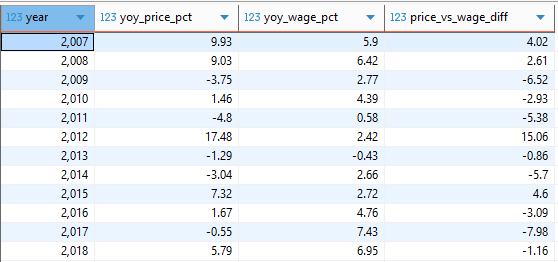
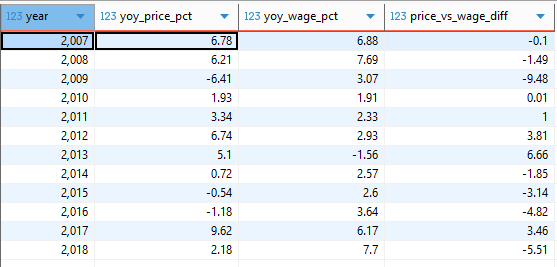
update readme

diff --git a/README.md b/README.md
@@ -323,54 +323,52 @@ Z grafu lze vidět, že dvě kategorie v tomto období dokonce zlevňovali a to 
 
 ### 4. Existuje rok, ve kterém byl meziroční nárůst cen potravin výrazně vyšší než růst mezd (větší než 10 %)?
 
-Cílem bylo zjistit, zda ceny potravin rostly rychleji než mzdy, a to na základě jejich mediánových meziročních změn. Medián sem se rozhodl použít z důvodu některých silně vybočujích hodnot u navýšení/poklesu cen levných produktů. 
-
+Cílem této analýzy bylo zjistit, zda ceny potravin rostly rychleji než mzdy. Výpočet byl proveden na základě průměrných meziročních změn obou veličin.
 ```
 CREATE OR REPLACE VIEW price_vs_wage_diff AS 
-WITH median_prices AS (
-    SELECT year,
-           PERCENTILE_CONT(0.5) WITHIN GROUP (ORDER BY avg_price_czk) AS median_price
+WITH avg_prices AS (
+    SELECT 
+        year,
+        AVG(avg_price_czk) AS avg_price
     FROM t_vladimir_sip_project_sql_primary_final
     GROUP BY year
 ),
-median_wages AS (
-    SELECT year,
-           PERCENTILE_CONT(0.5) WITHIN GROUP (ORDER BY avg_wage_czk) AS median_wage
+avg_wages AS (
+    SELECT 
+        year,
+        AVG(avg_wage_czk) AS avg_wage
     FROM t_vladimir_sip_project_sql_primary_final
     GROUP BY year
 ),
 combined AS (
     SELECT 
         p.year,
-        p.median_price,
-        w.median_wage,
-        LAG(p.median_price) OVER (ORDER BY p.year) AS prev_price,
-        LAG(w.median_wage) OVER (ORDER BY w.year) AS prev_wage
-    FROM median_prices p
-    JOIN median_wages w ON p.year = w.year
+        p.avg_price,
+        w.avg_wage,
+        LAG(p.avg_price) OVER (ORDER BY p.year) AS prev_price,
+        LAG(w.avg_wage) OVER (ORDER BY w.year) AS prev_wage
+    FROM avg_prices p
+    JOIN avg_wages w ON p.year = w.year
 ),
 change_analysis AS (
     SELECT
         year,
-        ROUND(((median_price - prev_price) / prev_price * 100)::NUMERIC, 2) AS yoy_price_pct,
-        ROUND(((median_wage - prev_wage) / prev_wage * 100)::NUMERIC, 2) AS yoy_wage_pct,
-        ROUND((((median_price - prev_price) / prev_price * 100) - ((median_wage - prev_wage) / prev_wage * 100))::NUMERIC, 2) AS price_vs_wage_diff
+        ROUND(((avg_price - prev_price) / prev_price * 100)::NUMERIC, 2) AS yoy_price_pct,
+        ROUND(((avg_wage - prev_wage) / prev_wage * 100)::NUMERIC, 2) AS yoy_wage_pct,
+        ROUND((((avg_price - prev_price) / prev_price * 100) - ((avg_wage - prev_wage) / prev_wage * 100))::NUMERIC, 2) AS price_vs_wage_diff
     FROM combined
     WHERE prev_price IS NOT NULL AND prev_wage IS NOT NULL
       AND prev_price <> 0 AND prev_wage <> 0
 )
 SELECT *
-FROM change_analysis
+FROM change_analysis;
+
 ```
-**median_prices**  
-Výpočet mediánové ceny potravin za každý rok (pomocí ```PERCENTILE_CONT(0.5)```).
+**avg_priceses**  
+Výpočet průměrné ceny potravin za každý rok ```AVG(avg_price_czk) AS avg_price```
 
-0.5 = 50. percentil > medián
-
-```WITHIN GROUP (ORDER BY ...)``` > určuje, podle kterého sloupce se mají hodnoty seřadit
-
-**median_wages**
-Výpočet mediánových mezd za každý rok stejným způsobem.
+**avg_wageses**
+Výpočet průměrných mezd za každý rok stejným způsobem.
 
 **combined**  
 Spojení tabulek a přidání předchozích hodnot (LAG) pro výpočet meziročních změn.
@@ -385,12 +383,31 @@ Výpočet klíčových ukazatelů:
 *price_vs_wage_diff* = rozdíl mezi těmito dvěma hodnotami (pozitivní = ceny rostly rychleji než mzdy)
 
 ## Závěr
-Z výstupní tabulky vyplývá, že rok 2012 je jediný, kdy ceny potravin rostly výrazně rychleji než mzdy, konkrétně o 15,06%.
-Toto je výrazný roydíl v porovnání s ostatními roky, kde růst cen byl buď menší než růst mezd, nebo byl rozdíl jen mírný. 
-Je potřeba mít na vědomí, že toto číslo může být ovlivněno cenovými skoky u levnějších položek, jejichž podíl na celkových výdajích domácností je zanedbatelný. Naproti tomu i malý meziroční růst mezd může znamenat stovky korun navíc měsíčně, a tedy větší reálný vliv na kupní sílu. 
+![price_wage_diff](Obrazky/price_wage_diff.PNG)  
 
-![price_wage_diff](Obrazky/price_wage_diff.PNG)
+Z výstupní tabulky vyplývá, že v žádném roce nebyl rozdíl mezi navýšením cen potravin a navýšením mezd vyšší než 10?. Největší rozdíl byl zaznamenán v roce 2013, kdy průměrná mzda klesla o 1,56 %, zatímco průměrná cena potravin vzrostla o 5,1 %. Je potřeba mít na vědomí, že toto číslo může být ovlivněno cenovými skoky u levnějších položek, jejichž podíl na celkových výdajích domácností je zanedbatelný. Naproti tomu i malý meziroční růst mezd může znamenat stovky korun navíc měsíčně, a tedy větší reálný vliv na kupní sílu. 
 
+![ceny_potravin_2009](Obrazky/Ceny_potravin_2009.png)
+*Sloupcový graf znázorňující meziroční procentuální změny cen potravin v roce 2009 (oproti roku 2008). ChatGPT vygeneroval tento graf s výsledků SQL dotazu.*
+```
+WITH prices_with_lag AS (
+  SELECT
+    product_name,
+    year,
+    AVG(avg_price_czk) AS avg_price,
+    LAG (AVG(avg_price_czk)) OVER (PARTITION BY product_name ORDER BY year) AS prev_price
+  FROM t_vladimir_sip_project_sql_primary_final
+  GROUP BY product_name, year
+)
+SELECT 
+  product_name,
+  avg_price AS price_2009,
+  prev_price AS price_2008,
+  ROUND(((avg_price - prev_price) / prev_price) * 100, 2) AS yoy_price_pct
+FROM prices_with_lag
+WHERE year = 2009 AND prev_price IS NOT NULL
+ORDER BY yoy_price_pct ASC;
+```
 
 ### 5. Má výška HDP vliv na změny ve mzdách a cenách potravin?
 
